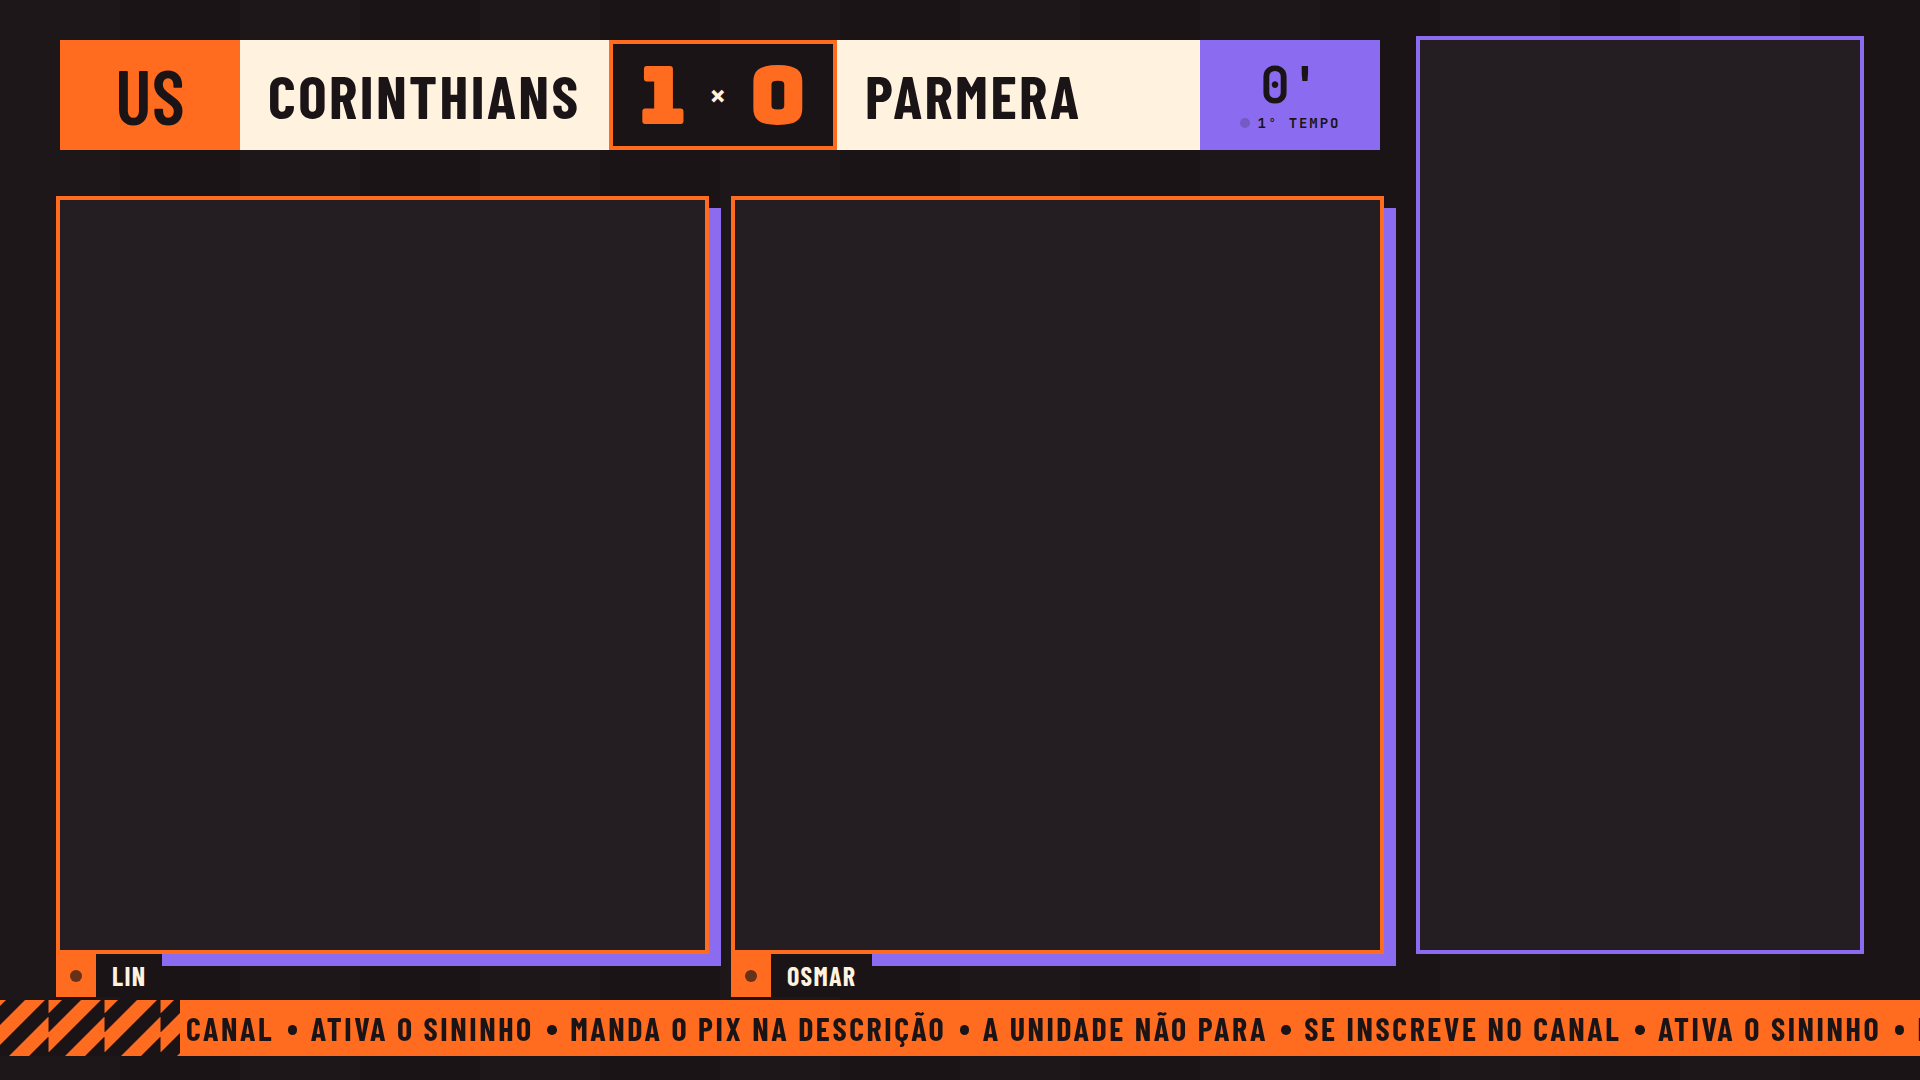
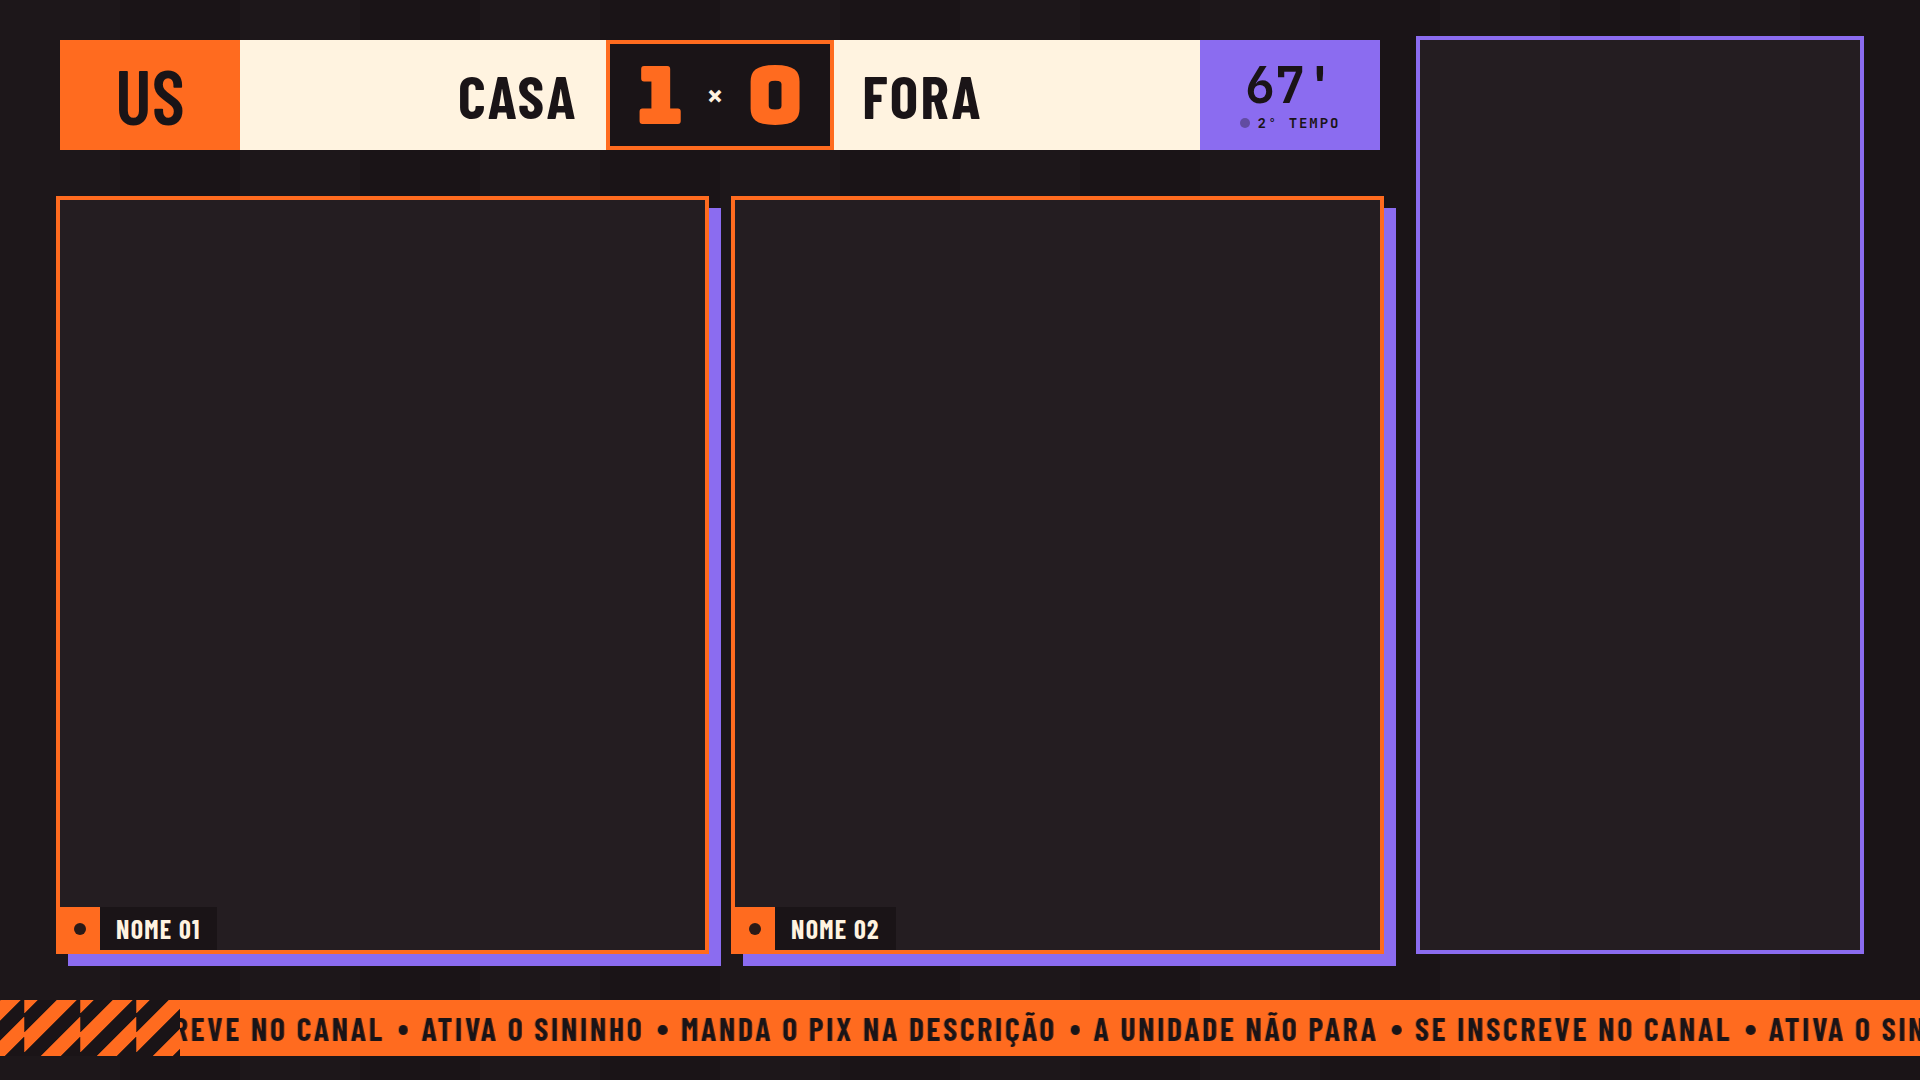
feat(futebol): sem enquete, a etiqueta de nome fica dentro da câmera

diff --git a/src/telas/TelaFutebol.tsx b/src/telas/TelaFutebol.tsx
@@ -35,9 +35,10 @@ export function TelaFutebol({ estado, previa }: PropsTela) {
           </div>
         </div>
       </div>
-      {/* sem a enquete, as câmeras ocupam a área toda até 950 (em pé, não 16:9: decisão do usuário) */}
-      <SlotCamera nome={estado.nomes[0] || 'NOME 01'} w={645} h={alturaCam} x={60} y={200} previa={previa} />
-      <SlotCamera nome={estado.nomes[1] || 'NOME 02'} w={645} h={alturaCam} x={735} y={200} previa={previa} />
+      {/* sem a enquete, as câmeras ocupam a área toda até 950 (em pé, não 16:9: decisão do usuário)
+          e a etiqueta de nome entra no quadro para não encostar no letreiro */}
+      <SlotCamera nome={estado.nomes[0] || 'NOME 01'} w={645} h={alturaCam} x={60} y={200} previa={previa} etiquetaDentro={!enquete.mostrar} />
+      <SlotCamera nome={estado.nomes[1] || 'NOME 02'} w={645} h={alturaCam} x={735} y={200} previa={previa} etiquetaDentro={!enquete.mostrar} />
       {enquete.mostrar && (
         <div className="t-futebol__enquete">
           <div className="t-futebol__enquete-titulo">QUEM GANHA?</div>

diff --git a/src/telas/telas-jogo.test.tsx b/src/telas/telas-jogo.test.tsx
@@ -40,6 +40,15 @@ describe('futebol e filme', () => {
     expect(cams(container)).toEqual(['60px 200px 645px 400px', '735px 200px 645px 400px']);
   });
 
+  it('sem enquete a etiqueta de nome fica dentro da câmera; com enquete, embaixo', () => {
+    const dentro = (c: HTMLElement) => c.querySelectorAll('.t-slot__tag--dentro').length;
+    const semEnquete = { ...ESTADO_PADRAO, enquete: { casa: 0, empate: 0, fora: 0, mostrar: false } };
+    const { container, rerender } = render(<TelaFutebol estado={semEnquete} />);
+    expect(dentro(container)).toBe(2);
+    rerender(<TelaFutebol estado={{ ...semEnquete, enquete: { ...semEnquete.enquete, mostrar: true } }} />);
+    expect(dentro(container)).toBe(0);
+  });
+
   it('Filme mostra 4 câmeras, filme e episódio', () => {
     render(<TelaFilme estado={{ ...ESTADO_PADRAO, filme: 'TITANIC', episodio: 'T2 · E1' }} />);
     expect(screen.getByText('TITANIC')).toBeInTheDocument();

diff --git a/src/telas/telas.css b/src/telas/telas.css
@@ -41,6 +41,7 @@
 .t-slot { position: absolute; background: #241d21; box-shadow: 0 0 0 4px #FF6B1F, 12px 12px 0 4px #8B6CF0; display: flex; align-items: center; justify-content: center; }
 .t-slot__placeholder { font: 700 18px/1 'JetBrains Mono', monospace; letter-spacing: 0.14em; color: #4a3f44; }
 .t-slot__tag { position: absolute; left: -4px; top: calc(100% + 4px); display: flex; align-items: stretch; }
+.t-slot__tag--dentro { left: 0; top: auto; bottom: 0; }
 .t-slot__led-box { width: 40px; background: #FF6B1F; display: flex; align-items: center; justify-content: center; }
 .t-slot__led { width: 12px; height: 12px; border-radius: 50%; background: #1A1417; animation: usBlink 1.4s ease-in-out infinite; }
 .t-slot__nome { background: #1A1417; color: #FFF3E0; font: 700 26px/1 'Barlow Condensed', sans-serif; letter-spacing: 0.05em; text-transform: uppercase; padding: 9px 16px 8px; }

diff --git a/src/telas/SlotCamera.tsx b/src/telas/SlotCamera.tsx
@@ -5,13 +5,15 @@ interface Props {
   x: number;
   y: number;
   previa?: boolean;
+  /** etiqueta no canto de baixo, dentro do quadro (quando não cabe embaixo) */
+  etiquetaDentro?: boolean;
 }
 
-export function SlotCamera({ nome, w, h, x, y, previa }: Props) {
+export function SlotCamera({ nome, w, h, x, y, previa, etiquetaDentro }: Props) {
   return (
     <div className="t-slot" style={{ left: x, top: y, width: w, height: h }}>
       {previa && <div className="t-slot__placeholder">CÂMERA · {w}×{h}</div>}
-      <div className="t-slot__tag">
+      <div className={etiquetaDentro ? 't-slot__tag t-slot__tag--dentro' : 't-slot__tag'}>
         <div className="t-slot__led-box">
           <div className="t-slot__led" />
         </div>
